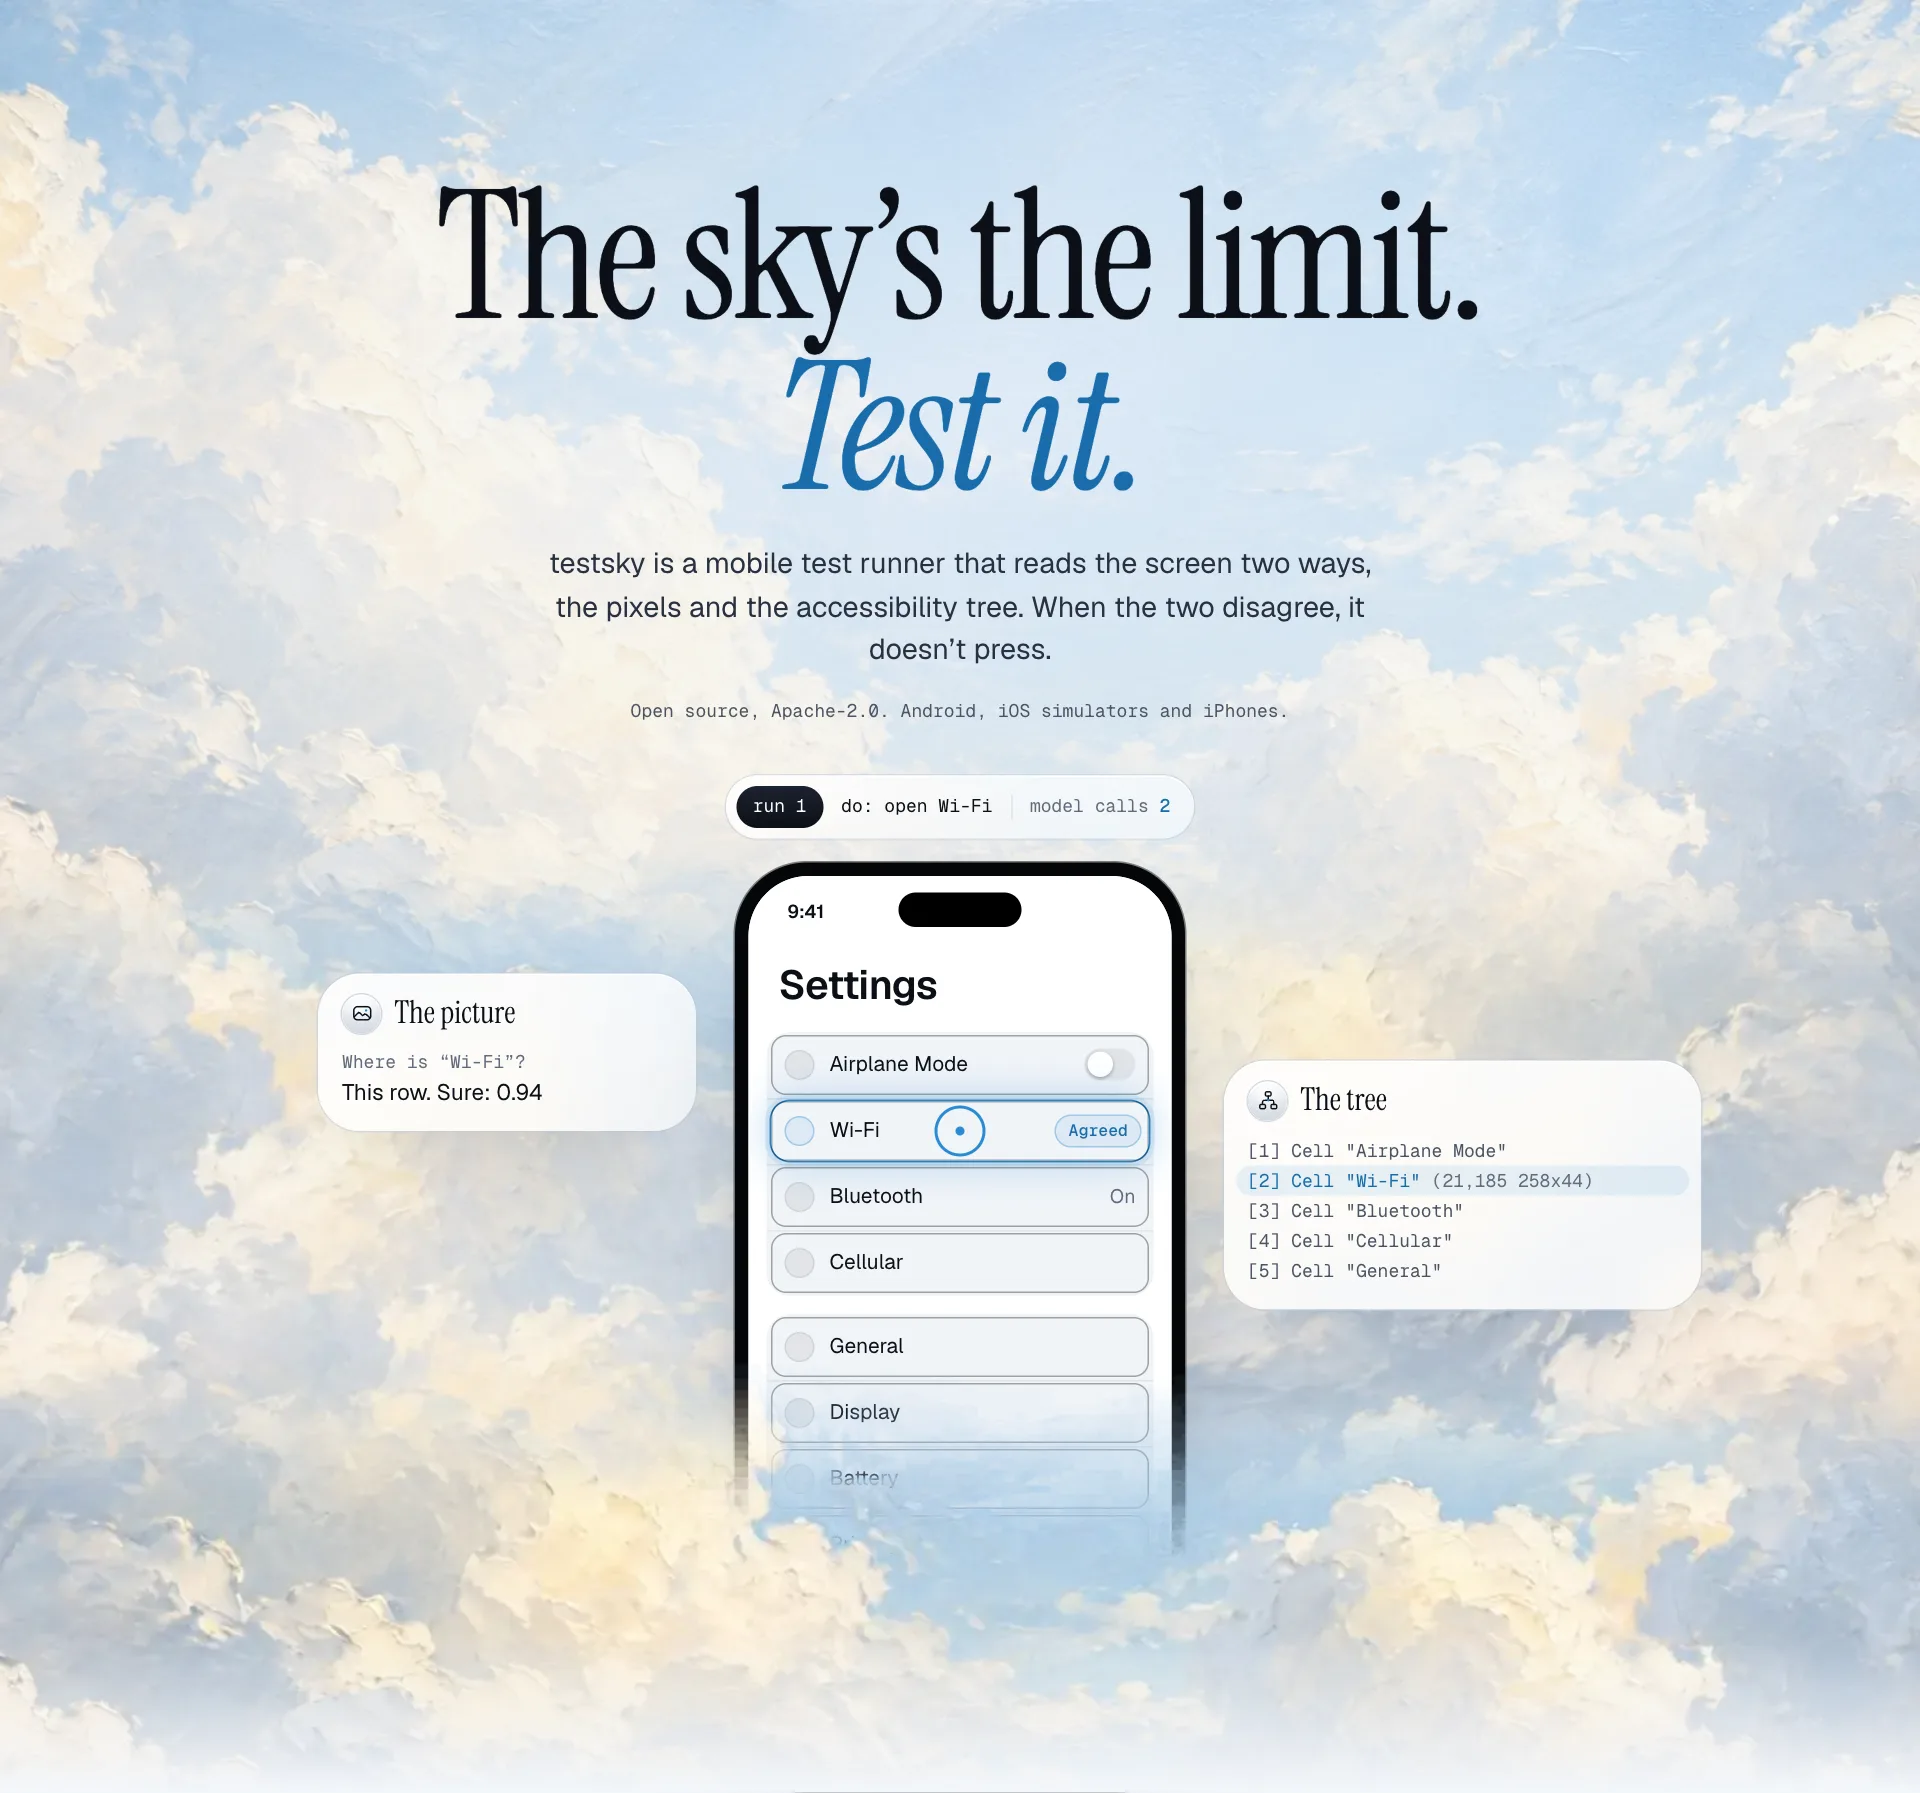
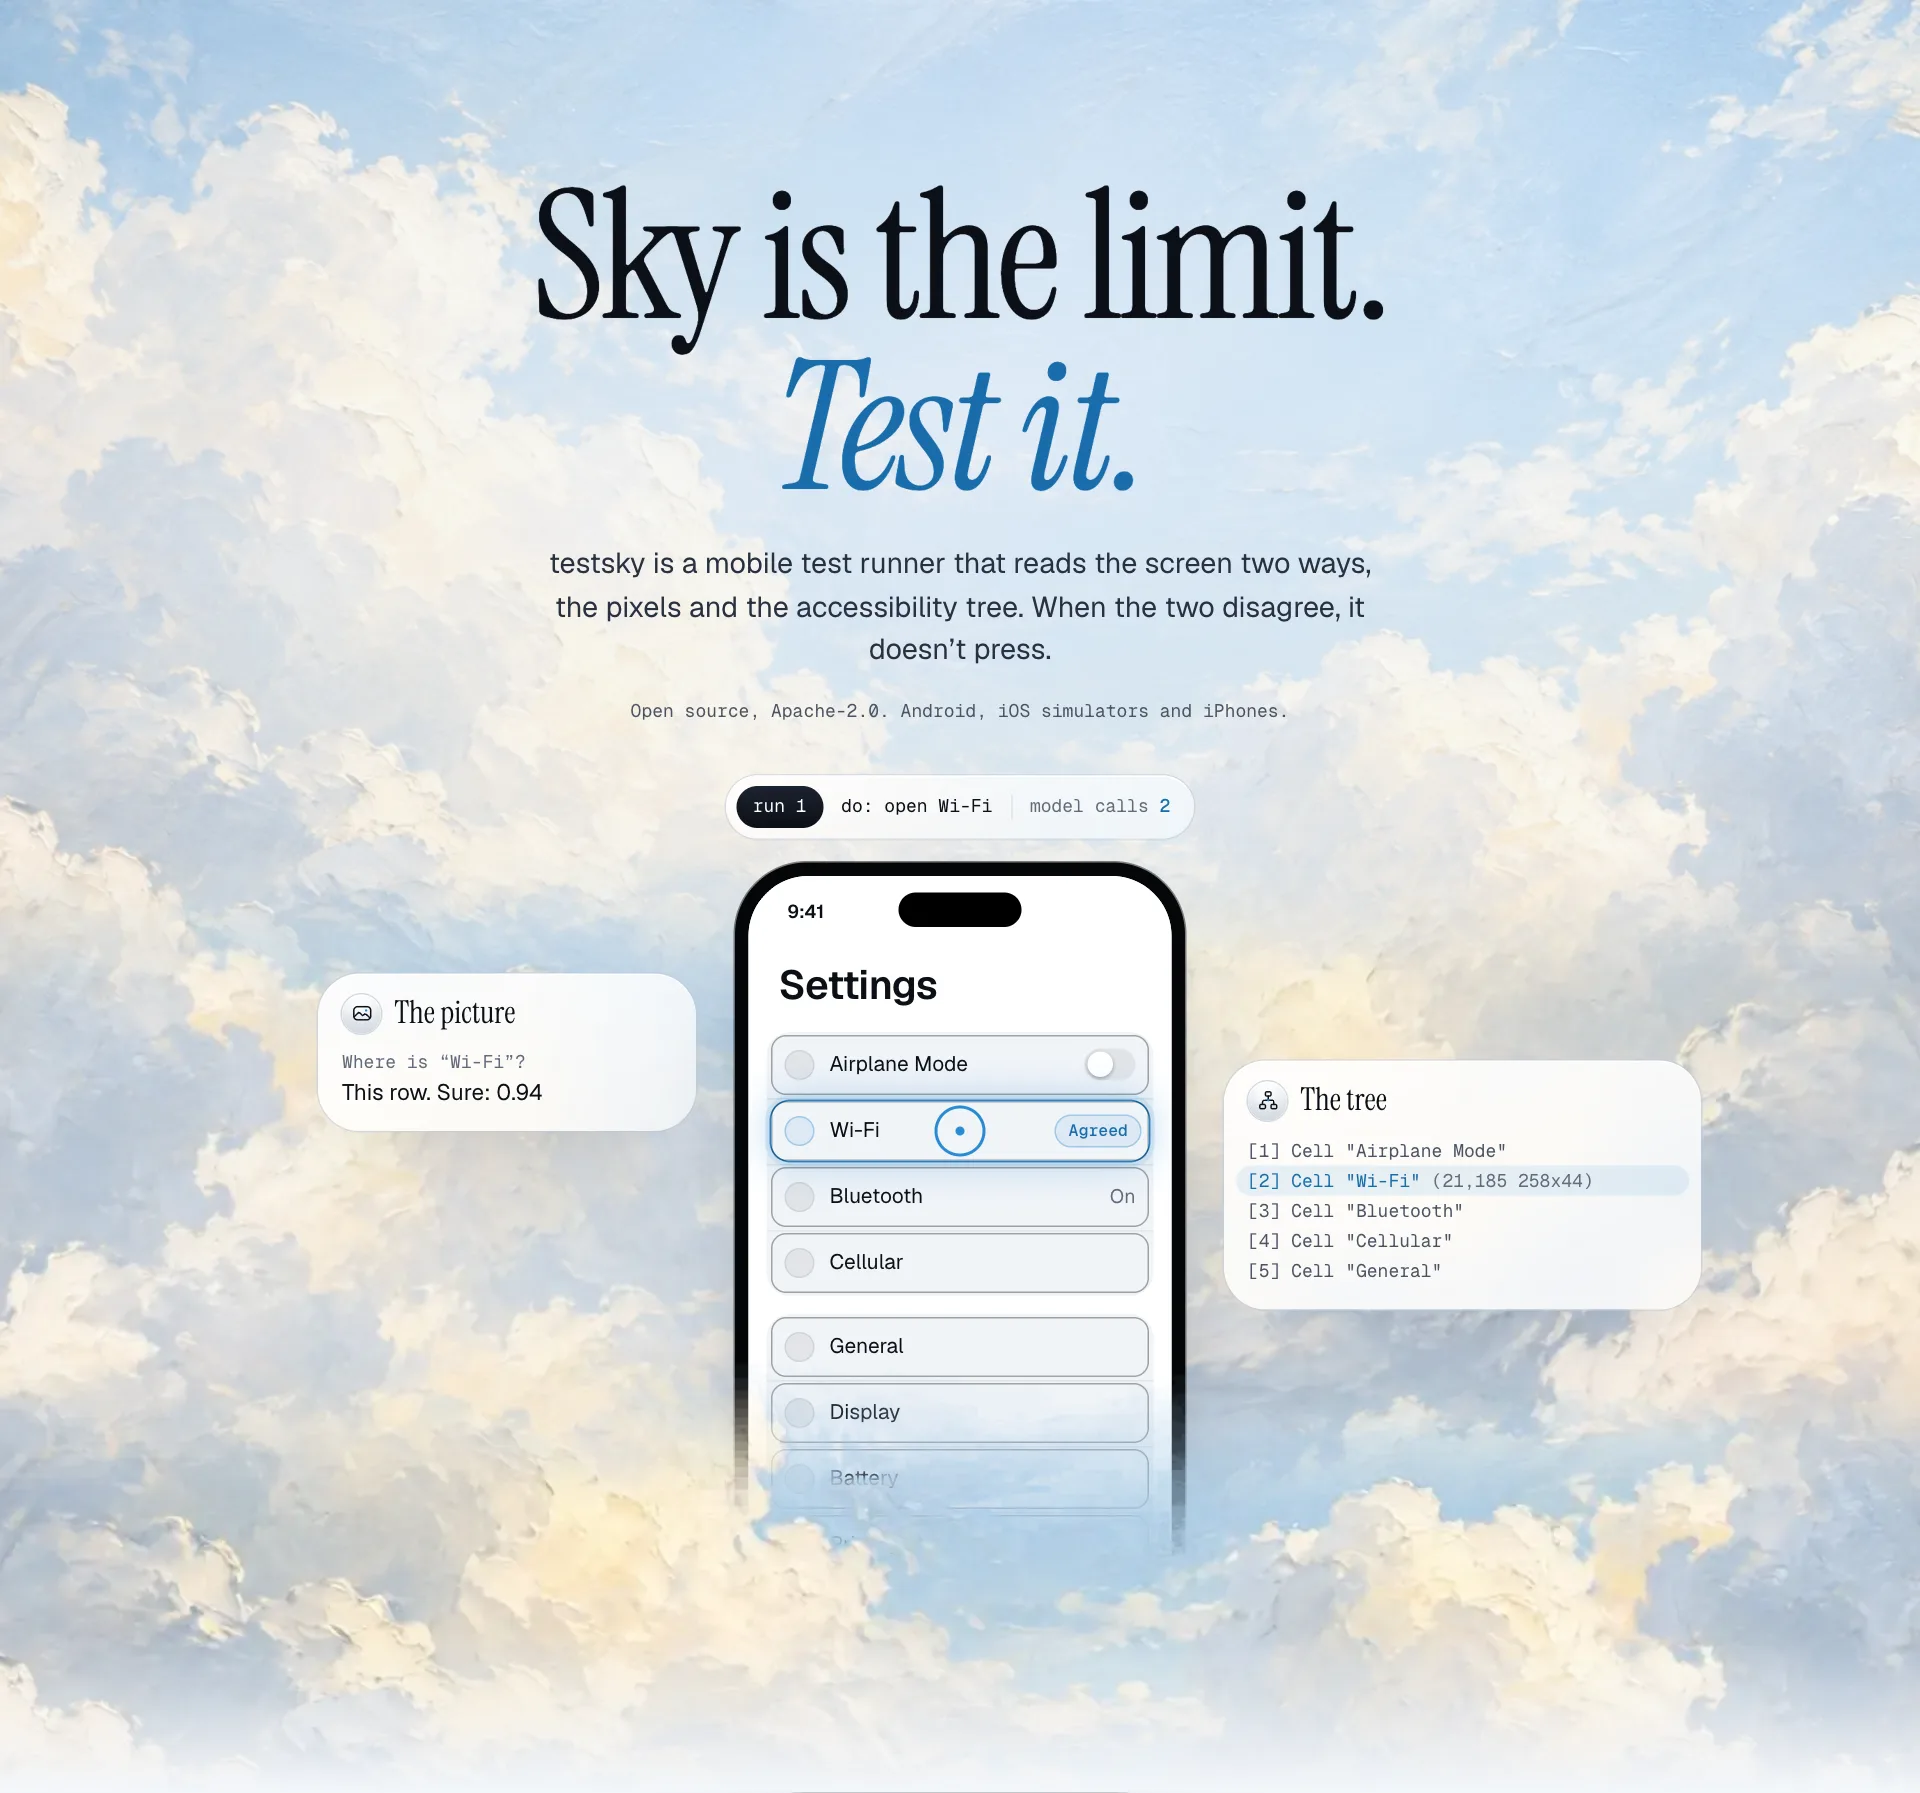
docs(readme): "Sky is the limit"
The hero images and their alt text said "The sky's the limit"; the site
now says "Sky is the limit", and so does the README.

Changed region(s): [[0.2188, 0.0937, 0.7812, 0.2186]]

diff --git a/README.md b/README.md
@@ -2,7 +2,7 @@
   <a href="https://testsky.vercel.app">
     <picture>
       <source media="(prefers-color-scheme: dark)" srcset="assets/brand/readme-top-night.webp">
-      <img src="assets/brand/readme-top-day.webp" alt="testsky. The sky's the limit. Test it. A phone on a Settings screen: the picture and the accessibility tree both point at the Wi-Fi row, which is marked Agreed.">
+      <img src="assets/brand/readme-top-day.webp" alt="testsky. Sky is the limit. Test it. A phone on a Settings screen: the picture and the accessibility tree both point at the Wi-Fi row, which is marked Agreed.">
     </picture>
   </a>
 </p>
